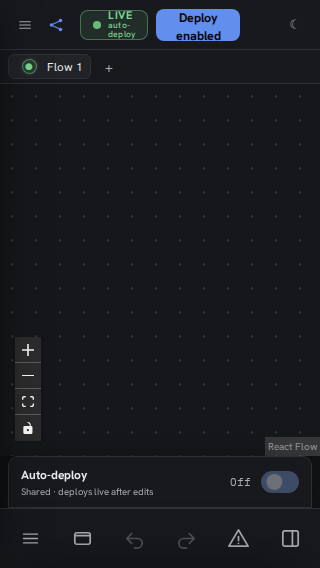
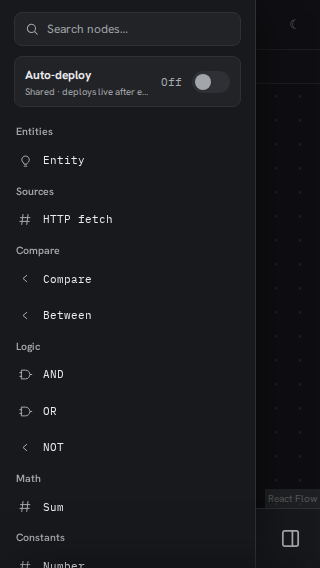
Move mobile auto-deploy into drawer

diff --git a/frontend/src/App.tsx b/frontend/src/App.tsx
@@ -829,7 +829,26 @@ export function App() {
 
       <div className="relative flex-1 min-h-0 flex">
         <div className="rw-sidebar-wrap flex min-h-0">
-          <Palette onAdd={addNode}>
+          <Palette
+            onAdd={addNode}
+            mobileSettings={isMobile && (
+              <label className="rw-mobile-autodeploy" title="Shared setting: the server deploys enabled flows after graph edits">
+                <span className="rw-mobile-autodeploy-copy">
+                  <span className="rw-mobile-autodeploy-label">Auto-deploy</span>
+                  <span id="rw-mobile-autodeploy-note" className="rw-mobile-autodeploy-note">Shared · deploys live after edits</span>
+                </span>
+                <span className="rw-mobile-autodeploy-value">{autoDeploy ? "On" : "Off"}</span>
+                <input
+                  type="checkbox"
+                  aria-label="auto-deploy"
+                  aria-describedby="rw-mobile-autodeploy-note"
+                  checked={autoDeploy}
+                  onChange={(e) => setAutoDeploy(e.target.checked)}
+                />
+                <span className="rw-mobile-switch" aria-hidden="true" />
+              </label>
+            )}
+          >
             <MacroList
               macros={macroLib.macros}
               onPlace={placeMacro}
@@ -924,21 +943,6 @@ export function App() {
       {isMobile && (
         <>
           <div className="rw-scrim" onPointerDown={() => { setNavOpen(false); setSheetOpen(false); }} />
-          <label className="rw-mobile-autodeploy" title="Shared setting: the server deploys enabled flows after graph edits">
-            <span className="rw-mobile-autodeploy-copy">
-              <span className="rw-mobile-autodeploy-label">Auto-deploy</span>
-              <span id="rw-mobile-autodeploy-note" className="rw-mobile-autodeploy-note">Shared · deploys live after edits</span>
-            </span>
-            <span className="rw-mobile-autodeploy-value">{autoDeploy ? "On" : "Off"}</span>
-            <input
-              type="checkbox"
-              aria-label="auto-deploy"
-              aria-describedby="rw-mobile-autodeploy-note"
-              checked={autoDeploy}
-              onChange={(e) => setAutoDeploy(e.target.checked)}
-            />
-            <span className="rw-mobile-switch" aria-hidden="true" />
-          </label>
           <MobileBar
             onNodes={() => setNavOpen(true)}
             onComment={addComment}

diff --git a/frontend/src/index.css b/frontend/src/index.css
@@ -601,11 +601,9 @@
     justify-content: space-around; align-items: stretch;
   }
   .rw-mobile-autodeploy {
-    position: fixed; left: 8px; right: 8px; bottom: 60px; z-index: 44; height: 52px;
-    display: flex; align-items: center; gap: 10px; padding: 0 12px;
-    border: 1px solid var(--rw-line); border-radius: 10px 10px 0 0;
-    background: var(--rw-panel); color: var(--rw-text); cursor: pointer;
-    box-shadow: 0 -10px 24px -20px rgba(0, 0, 0, .72);
+    display: flex; align-items: center; gap: 10px; margin: 4px 14px 7px; padding: 9px 10px;
+    border: 1px solid var(--rw-line); border-radius: 8px;
+    background: var(--rw-panel2); color: var(--rw-text); cursor: pointer;
   }
   .rw-mobile-autodeploy-copy { min-width: 0; display: flex; flex: 1; flex-direction: column; gap: 2px; }
   .rw-mobile-autodeploy-label { font-size: 12px; font-weight: 700; }
@@ -645,7 +643,7 @@
   .rw-app-mobile.nav-open .rw-scrim, .rw-app-mobile.sheet-open .rw-scrim { display: block; }
 
   /* Leave room for the bottom bar and make touch targets generous without enlarging the knob. */
-  .rw-mobile-stage { padding-bottom: 112px; }
+  .rw-mobile-stage { padding-bottom: 60px; }
   .react-flow__handle.rw-port { width: 36px; height: 36px; }
   .rw-knob { width: 14px; height: 14px; }
 }

diff --git a/frontend/src/canvas/Palette.tsx b/frontend/src/canvas/Palette.tsx
@@ -11,10 +11,13 @@ import { PALETTE, describeNode, type NodeTemplate } from "./node-templates.js";
 export function Palette({
   onAdd,
   extra = [],
+  mobileSettings,
   children,
 }: {
   onAdd: (t: NodeTemplate) => void;
   extra?: NodeTemplate[];
+  /** Controls shown at the top of the mobile palette drawer. */
+  mobileSettings?: ReactNode;
   children?: ReactNode;
 }) {
   const [query, setQuery] = useState("");
@@ -41,6 +44,8 @@ export function Palette({
           className="flex-1 bg-transparent text-rw-text text-[12px] outline-none placeholder:text-rw-faint"
         />
       </div>
+
+      {mobileSettings}
 
       <div className="rw-palette-scroll flex-1 overflow-y-auto py-1 pb-5">
         {categories.map((cat) => (

diff --git a/e2e/collab.spec.ts b/e2e/collab.spec.ts
@@ -85,6 +85,7 @@ test.describe.serial("Reactive Wire collaboration between two clients", () => {
     await mobile.goto("/");
     await expect(mobile.getByRole("button", { name: "Deploy enabled" })).toBeEnabled({ timeout: 10_000 });
 
+    await mobile.getByRole("button", { name: "Nodes" }).click();
     const mobileAutoDeploy = mobile.getByRole("checkbox", { name: "auto-deploy" });
     await expect(mobileAutoDeploy).toBeChecked({ timeout: 10_000 });
     await expect(mobile.getByText("Shared · deploys live after edits")).toBeVisible();